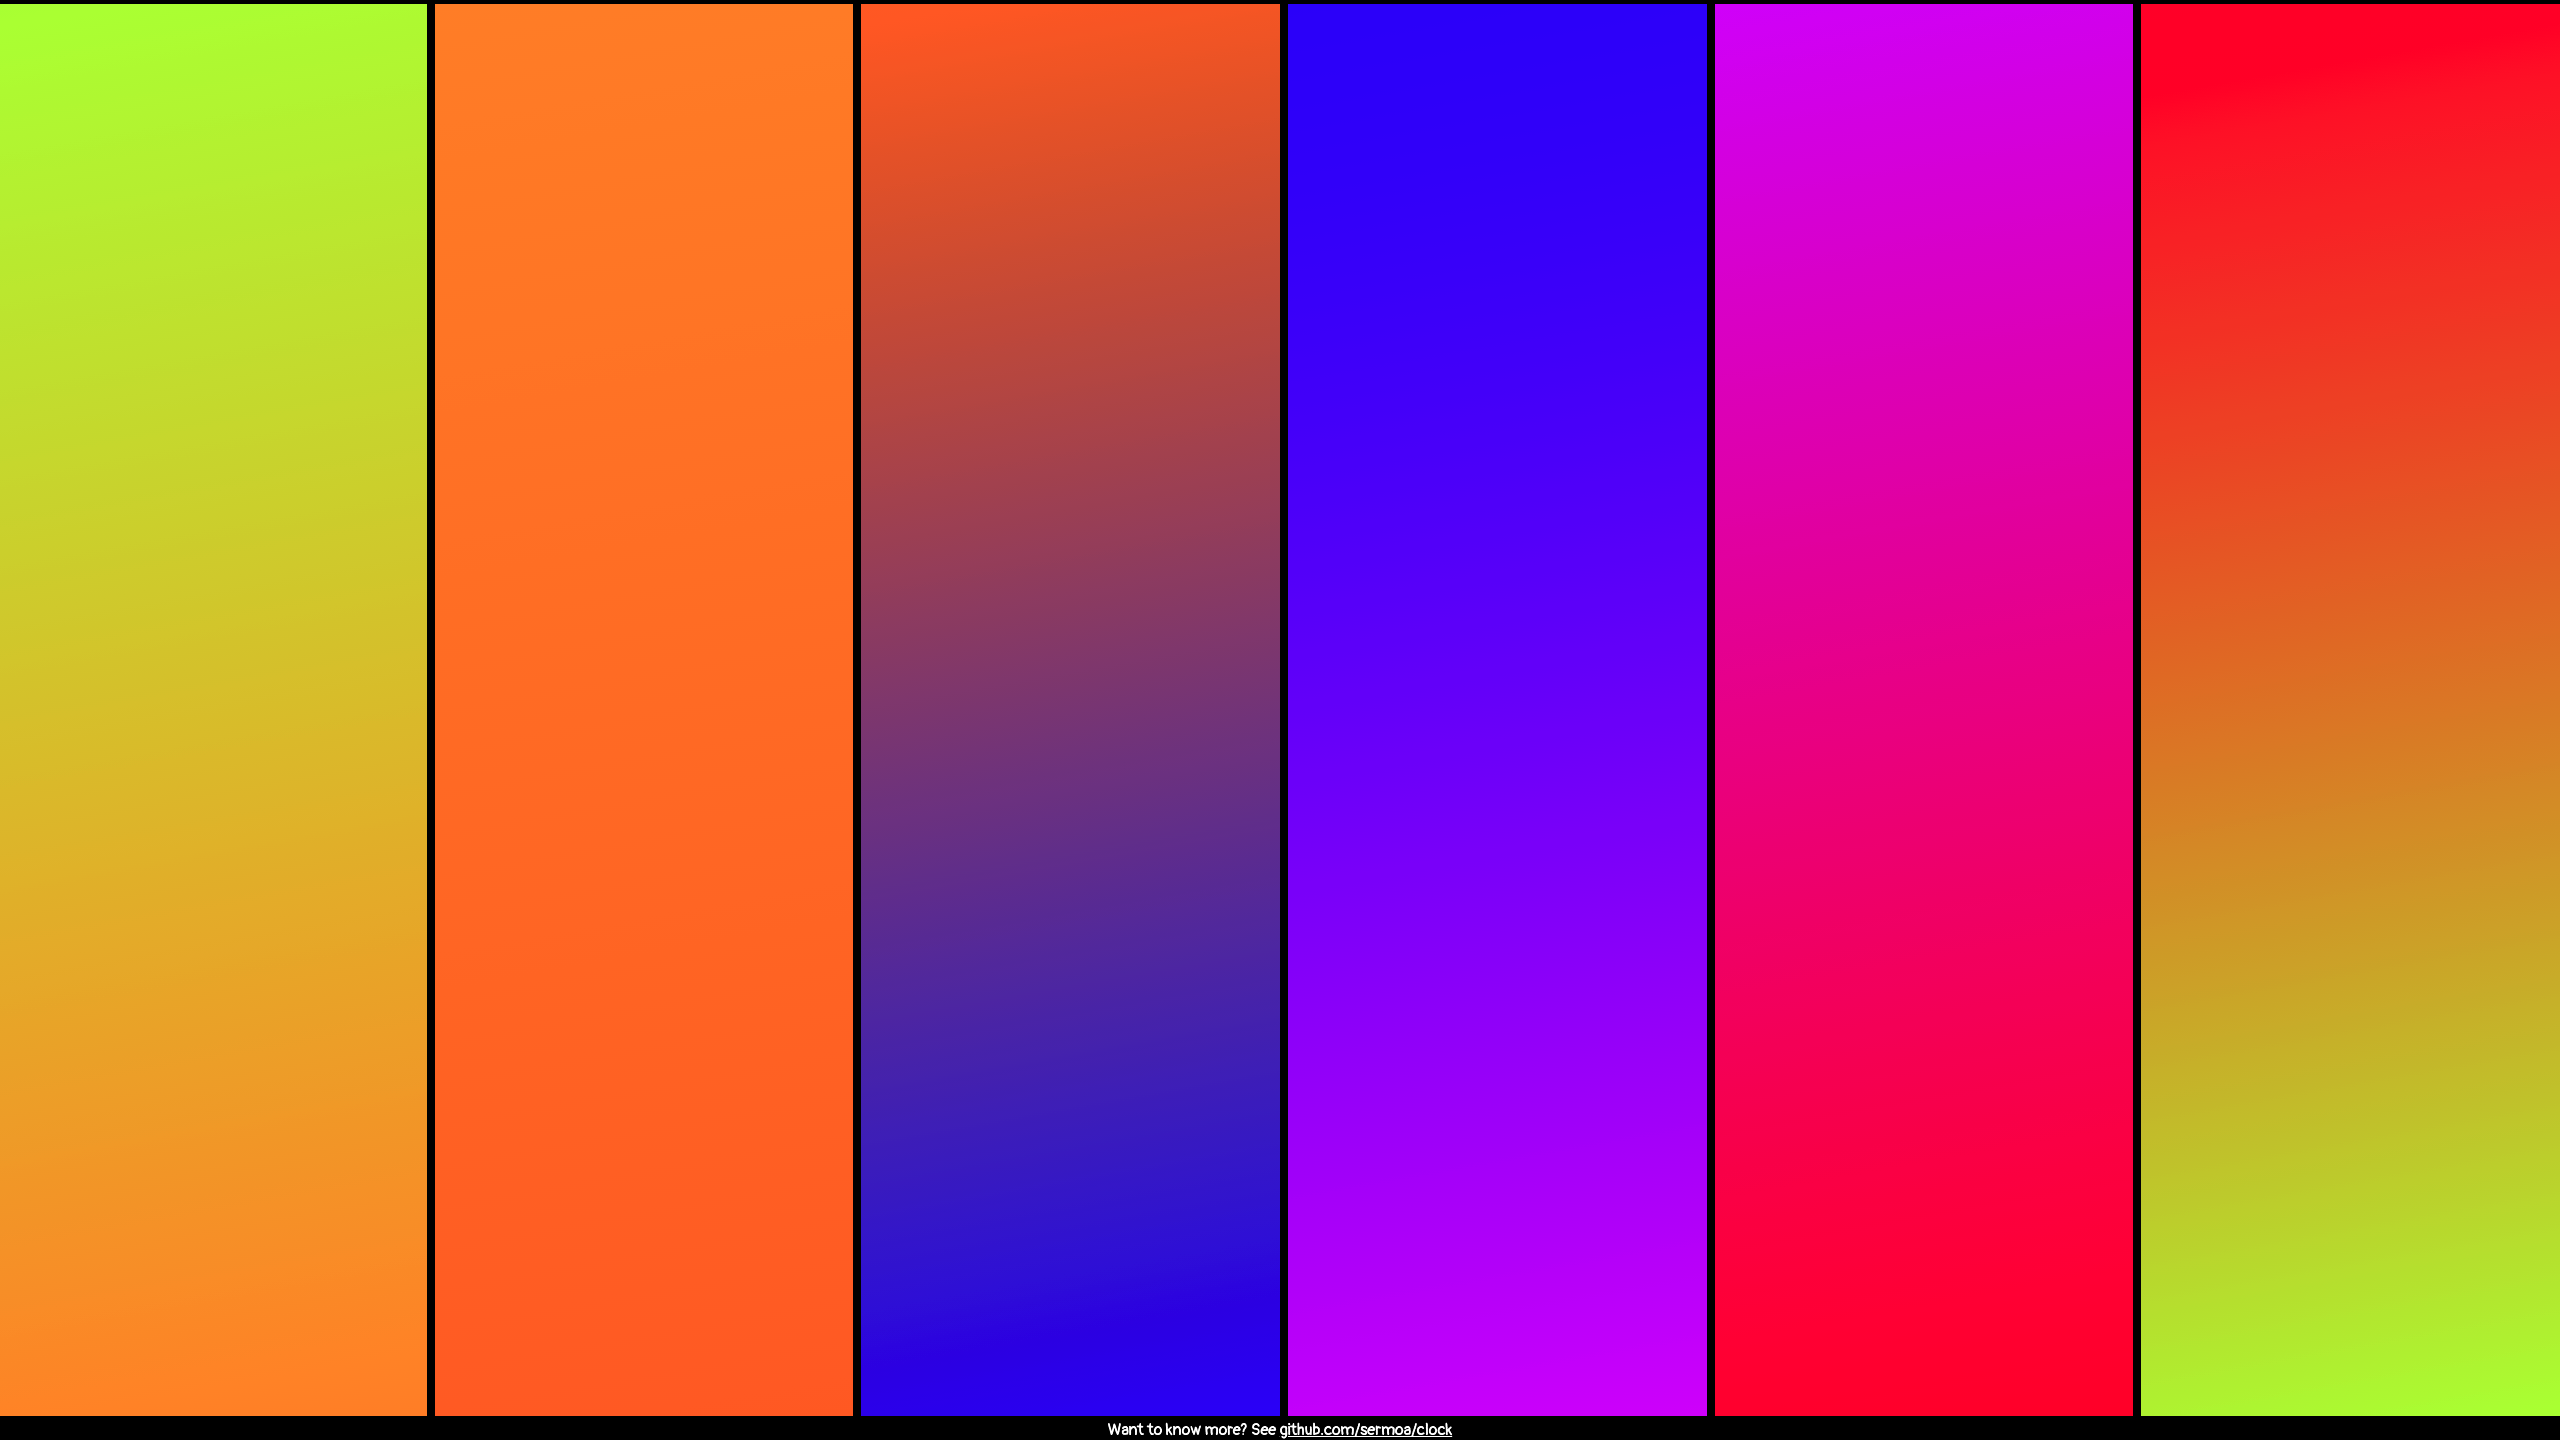
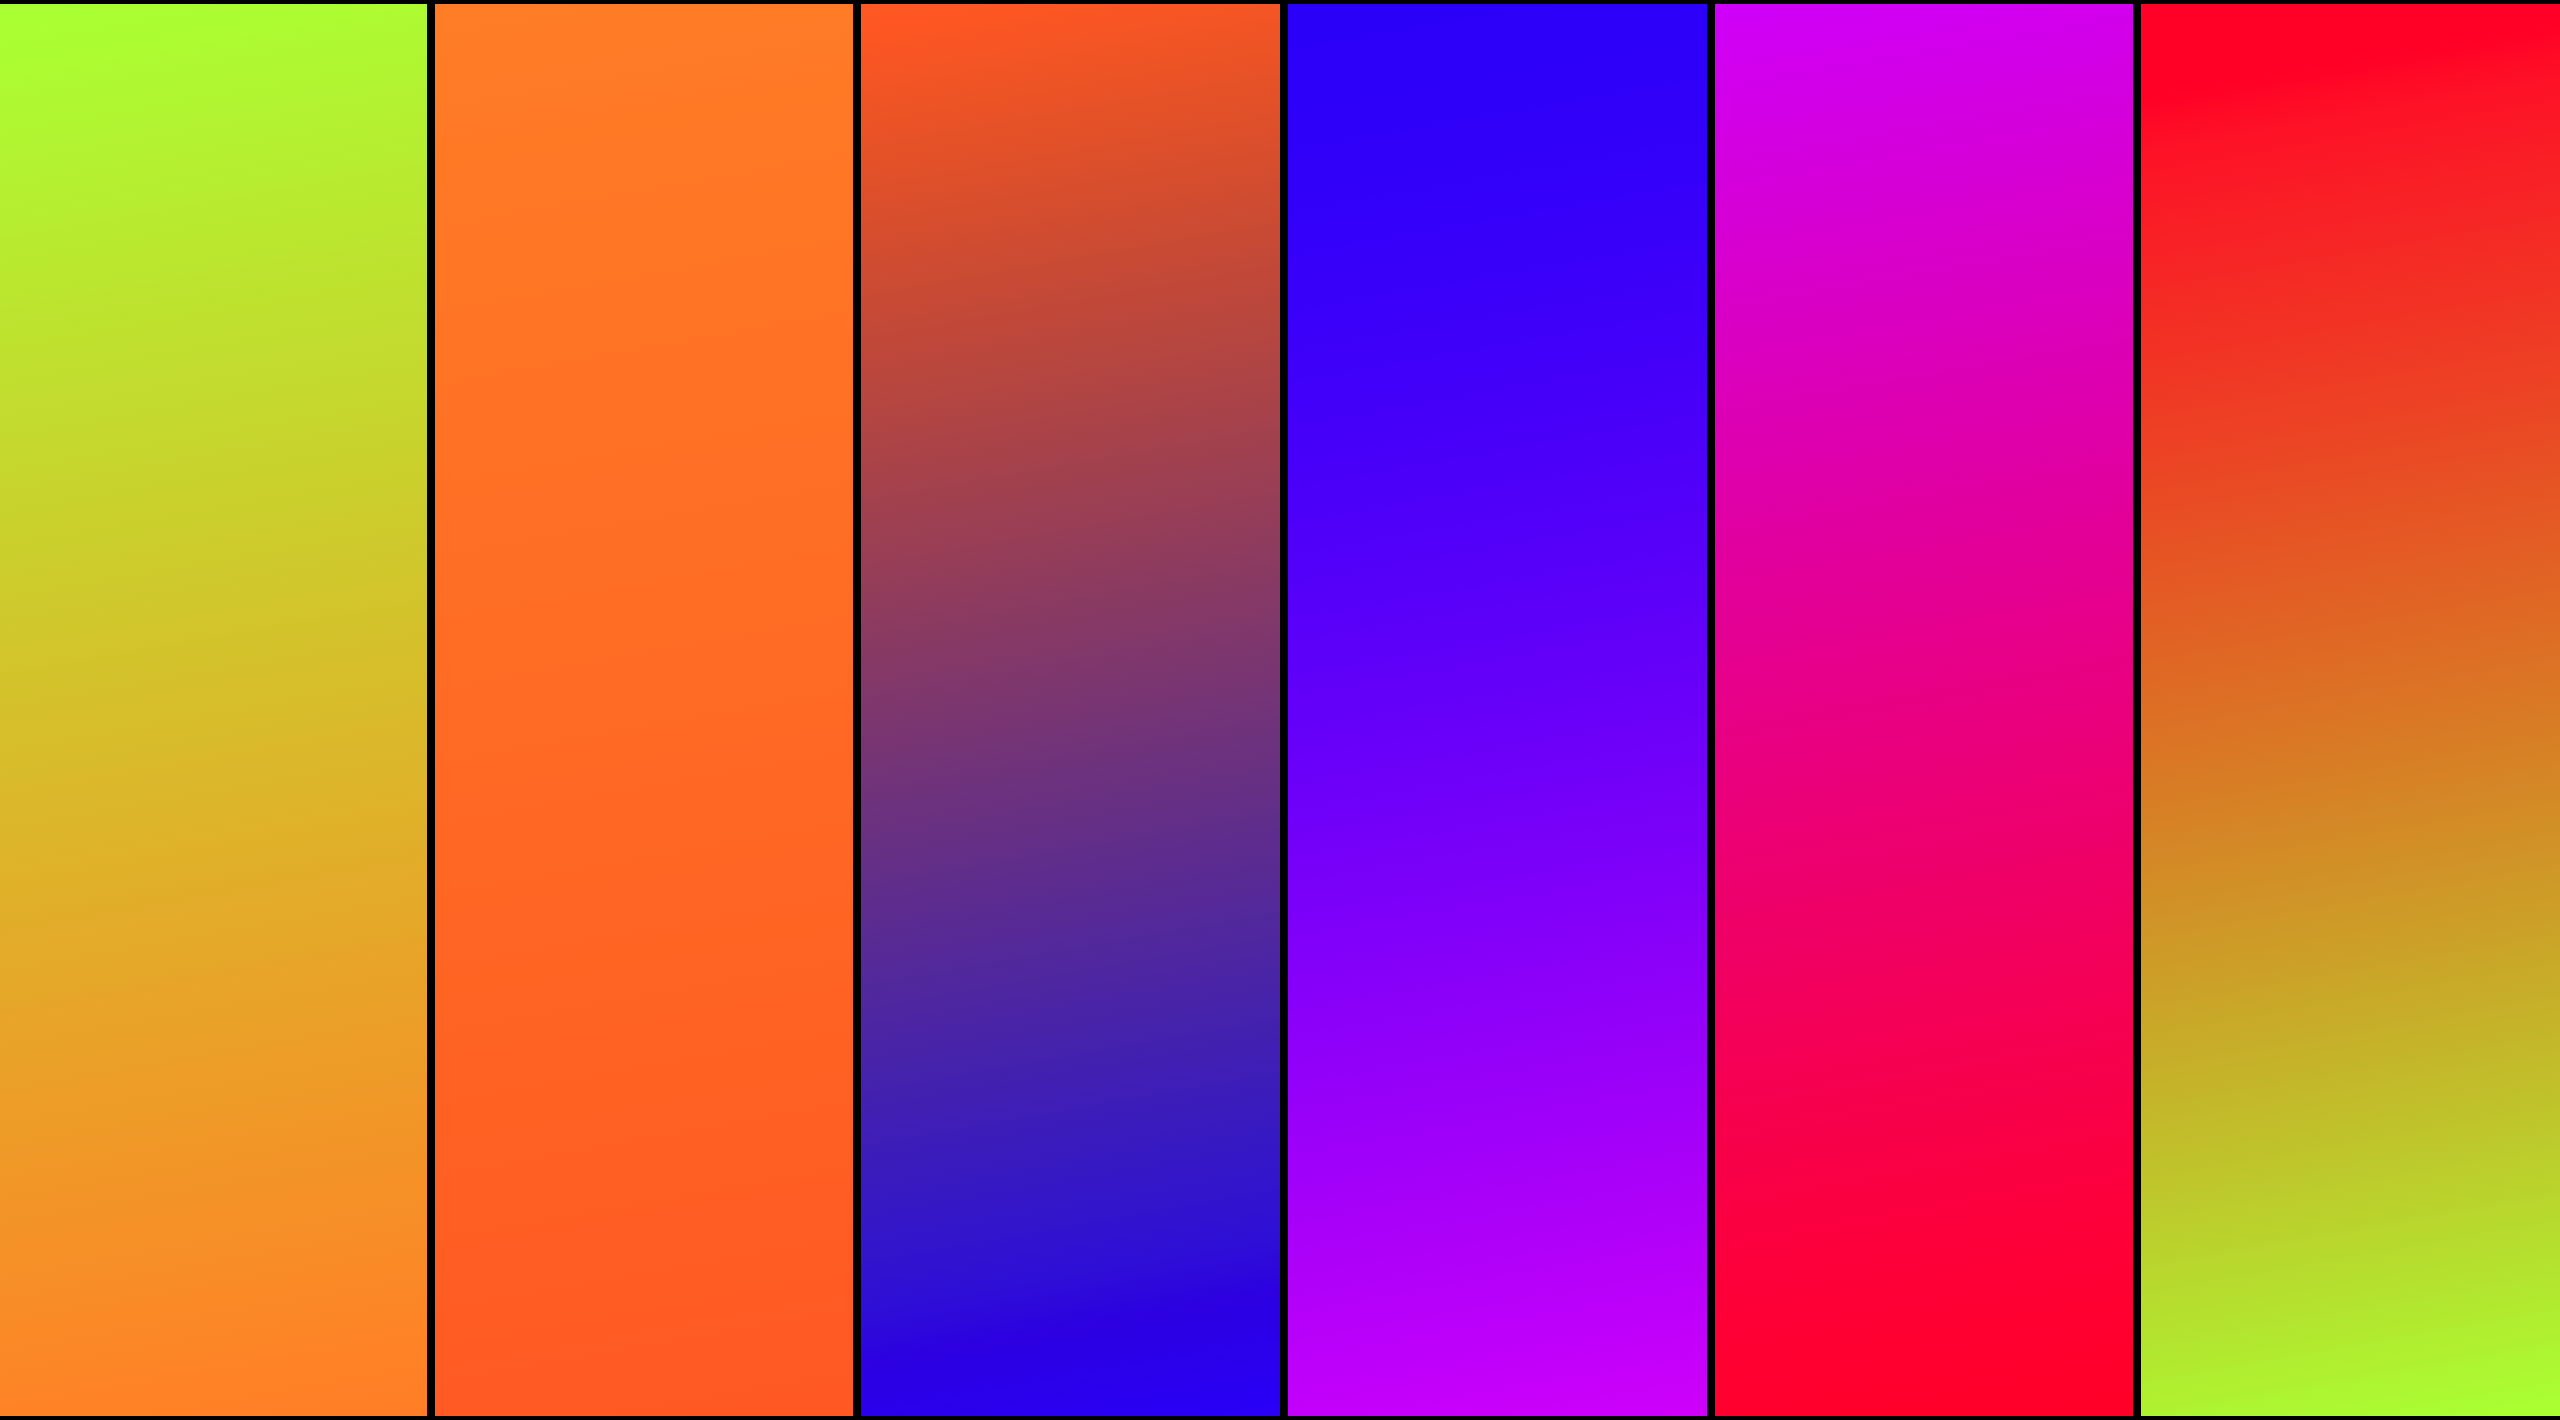
chore: update github username

Changed region(s): [[0.0, 0.9606, 1.0, 1.0]]

diff --git a/index.html b/index.html
@@ -48,7 +48,7 @@
 
   <div class="more">
     Want to know more? See 
-    <a href="https://github.com/sermoa/clock" target="_blank">github.com/sermoa/clock</a>
+    <a href="https://github.com/aimeerivers/clock" target="_blank">github.com/aimeerivers/clock</a>
   </div>
 
   <script src="js/script.js"></script>
